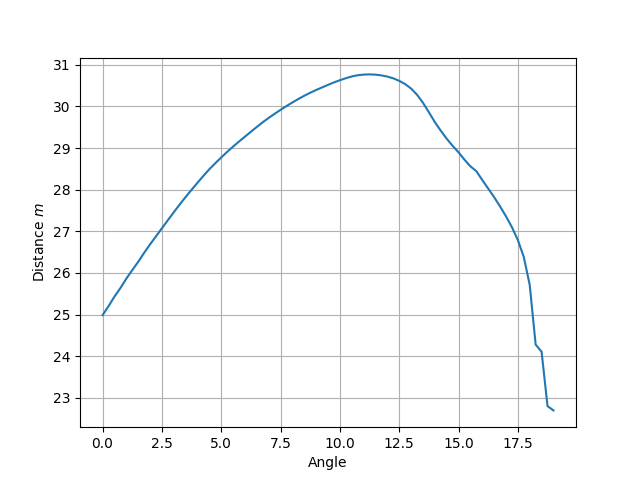
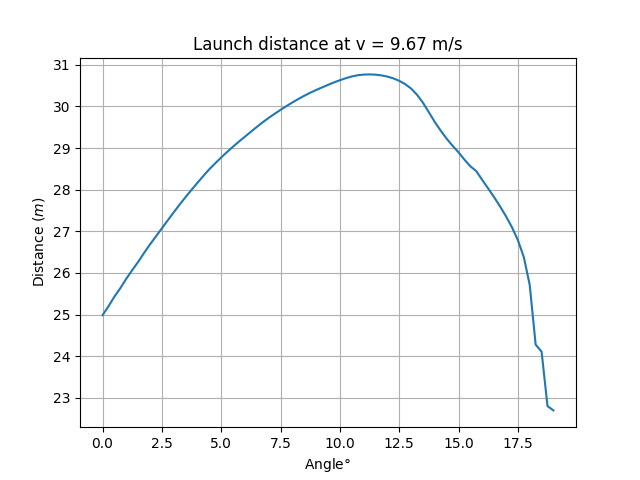
added title

diff --git a/launch.py b/launch.py
@@ -45,7 +45,8 @@ for i in data:
 arr = np.array(angdist)
 
 plt.plot(arr[:, 0], arr[:, 1])
-plt.ylabel("Distance $m$")
-plt.xlabel("Angle")
+plt.title(f"Launch distance at v = {v} m/s")
+plt.ylabel("Distance ($m$)")
+plt.xlabel("Angle$\degree$")
 plt.grid(True)
 plt.savefig('graph.png')
